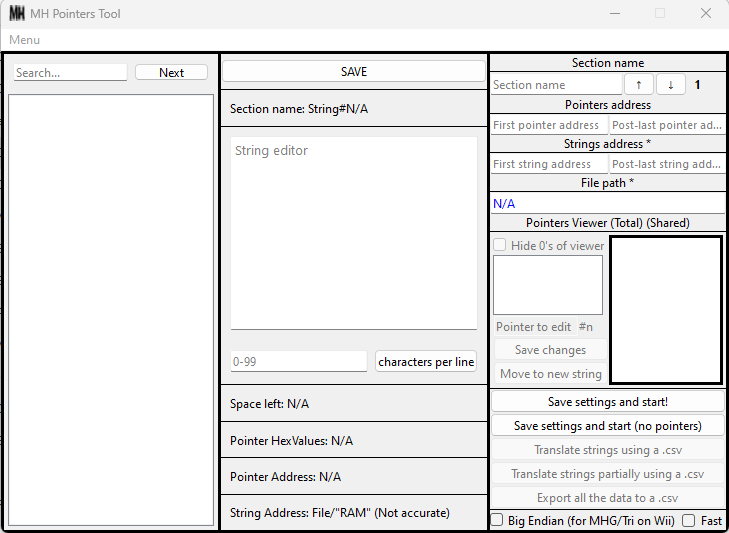
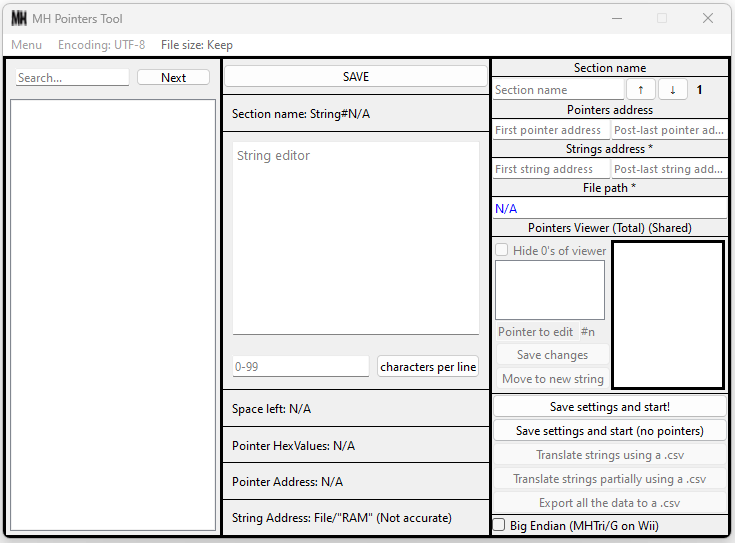
Metadata updated to 1.1.0

Changed region(s): [[0.0, 0.0, 1.0, 1.0], [0.9355, 0.0, 1.0, 0.03]]

diff --git a/src/index.js b/src/index.js
@@ -4436,6 +4436,7 @@ mainMenu.addAction(mainMenuAction6)
 
 const encodingMenu = new QMenu()
 encodingMenu.setTitle("Encoding: UTF-8")
+encodingMenu.setToolTip("Encoding used to load and save text.")
 const encodingMenuAction1 = new QAction();
 const encodingMenuAction2 = new QAction();
 

diff --git a/README.md b/README.md
@@ -1,25 +1,33 @@
 # MH Pointers Tool
 
-This tool can manage files with Shift-JIS and UTF8 encodings, then organize the file strings in a simple GUI where they can be edited. The edit can takes in count the pointers of these (if it position is given by the user), so if a string is edited the pointers will change too, maintaining the logic of where is the string in the file and making possible to get more free space to translate.
+This tool can manage the strings of any file that meets [certain paramethers](#compatible-estructure), organizing them in a simple GUI where they can be edited/translated, or exported to a csv file. When a string is edited, it can take into account its pointers (if the position/address of those are given by the user), so if a string is edited the pointers will change too, maintaining the logic of where the string is in the file and making possible to get more free space to translate or change strings. You can still use the tool without providing any pointers but the max size of a string will not be altered, in other words, if you overwrite a string with a bigger one the new string will be cut to maintain the size of the original string.
 
-It also has a lot of other functions, check below to know more!
+Supports Shift-JIS and UTF8 encodings, Little Endian and Big Endian.
 
-This tool was used to translate MHG for the PS2 from Japanese to English, so any game that has files with a similar strings and pointers structure must be also editable with it. 
+It also has a lot of other [features](#features), check below to know more!
 
-It has been also tested with MHP, MHG Wii and MHTri Europe version (The Japanese one has a weird encription, so I was not able to tested with it) and MHP3rd HD with excellents results. 
+## Tested games
 
-If you make some sucessfully tests with any other game, please let me know to add it to this list ^-^O.
+This tool was used to translate **Monster Hunter G** for the Playstation 2 from Japanese to English and to extract strings from the files of several other **Monster Hunter** games.
+
+It has been also tested with **Monster Hunter Portable**, **Monster Hunter 2 (Dos)**, **Monster Hunter G Wii**, **Monster Hunter Tri (E)** (The Japanese release has a weird encryption, so I was not able to test it there) and both **Monster Hunter Portable 3rd** **non**-**HD** and **HD** versions with excellents results.
+
+The strings of any game that has files with a similar structure must be also editable with this tool.
+
+I want to add that some of the before-mentioned games (the PS2 ones) were made using [CodeWarrior](https://en.wikipedia.org/wiki/CodeWarrior), these files have as header MWo3 (Metrowerks overlay 3?). 
+
+If you do some successful testing with any other games, please let me know to add it to this list ^-^O.
 
 ## Compatible estructure
 
-- The strings must be together but separated one from each other by at least one null value (00).
+- The strings must be together but separated from each other by at least one null value (00).
 
 Example: 
 82 50 00 82 51 00 82 52 00
 
-These hex values are "1 2 3" in full-width.
+These hex values are "１　２　３".
 
-- The pointers must be 4 bytes each. Can be both Big Endian (BE) or Little Endian (LE).
+- The pointers must be 4 bytes each. Can be both Big Endian (BE) or Little Endian (LE). Theoretically, they can be bigger, but bigger ones have not been tested yet since I don't have something to test them in the first place.
 
 Examples:
 F0 F3 2C 00 10 F4 2C 00 30 F4 2C 00 //LE
@@ -30,46 +38,59 @@ F0 F3 2C 00 10 F4 2C 00 30 F4 2C 00 //LE
 
 80 62 95 B4 80 62 95 C4 80 62 AE 14 //BE
 
+Each line has 4 different pointers.
+
 ## Values to set up
 
-You will need at least 2 values in hexadecimal (without 0x), the address of the first string and the address of the next byte different from 00 that goes after the last string.
+You will need at least 2 values in hexadecimal (without 0x), the address of the first string and the address of the next byte different from 00 that goes after the last string. The Hex values must be Big Endian.
 
 Example:
-FF FF FF FF FF FF FF FF FF FF FF FF FF FF FF FF
-82 50 00 00 82 51 00 00 82 52 00 00 01 02 03 00
+Offset   00 01 02 03 04 05 06 07 08 09 0A 0B 0C 0D 0E 0F
 
-The vales to use would be 10 and 19 (in that order).
+00000000 FF FF FF FF FF FF FF FF FF FF FF FF FF FF FF FF
+00000010 00 00 00 00 00 00 00 00 00 00 00 00 00 00 00 00
+00000020 82 50 00 00 82 51 00 00 82 52 00 00 01 02 03 00
 
-The same goes for the pointers address.
+The values to use would be 20 for the start and 2C for the end.
 
-To find these address you can use any standar hex editor like MadEdit.
+The same goes for the address of the pointers.
+
+To find these addresses you can use any standard hex editor like MadEdit.
 
 ## How does it look?
 <img alt="demo" src="./pngs/how_looks.png" height="280" />
 
-## Functions
+## Features
 
 -    **Easy handling** 
 
-You only need the address (without 0x) of the first string and a second address to mark the end of a group of strings. You will also need to choose a file, both cliking Menu>Load file>Choose file or drag and dropping it. Optionally you can add the address of the first string pointer and a address to mark the end of the pointers, by doing this each string can be edited more freely as long as there are enough free space (some null values),since it is possible to make the strings longer than they were originally.
+You need two hex addresses (without 0x), the first string address, and an address that marks the end of a group of strings. You will also need to choose a file, both by clicking Menu>Load file>Choose a file or **drag and dropping it**. Optionally you can add the address of the first string pointer and an address that marks the end of a group of pointers, by doing this each string can be edited more freely as long as there is enough free space (extra null values), since it is possible to make the strings longer than they were originally.
+
+Note: If a string is overwritten by a bigger one while using pointers, the last string will be cut to maintain the size of the file if there is not enough space.
 
 -    **Strings and pointers editor** 
 
-This tool can get the strings that are separated from each other by a null value (00) and make a list of them to be edited easily. Also has a option to limit the amount or characters per line, in case the width of a square in-game can't be changed.
+This tool can get the strings that are separated from each other by a null value (00) and make a list of them to be edited easily. Also has an option to limit the number of characters per line, in case the width of an in-game window can't be changed.
 
-Optionally if the pointers has a 4 bytes format, is possible get those to make a different list for them. In that list, they are updated automatically when a string that match with any of them is edited. They also can be edited manually or even change it values to relocate it string after the last. Note: By default the pointers are read in little endian but you can do it with big endian by checking that option before start.
+Additionally, there is a different list for pointers. Pointers on the list are updated automatically when a string that matches with any of them is edited. They also can be edited manually or even change their values to relocate it string after the last string of the section.
 
--   **Search option** 
+Note: By default the pointers are read in Little Endian but they can be read in Big Endian by checking that option before starting.
 
-Search for a string or part of it.
+-   **Search string** 
+
+Search for a string or part of it on the string list.
+
+-   **A lot of additional info**
+
+Available space to edit (calculated using null values), strings address, pointers address, pointers value etc.
 
 -   **Organize each section that is being translated** 
 
-Optionally, you can add a name to clasify each part of a group of strings that is being translated. This is called 'Section name'.
+You can add a name to classify each part of a group of strings that is being translated. This is called 'Section name'. In other words, represents a region of the file.
 
--   **Spreadsheet support** 
+-   **Cvs translation support** 
 
-Do you already has a spreadsheet with the original text and also the translated one? This tool has a option to translate the strings by using a UTF8 ".csv". The .csv must be divided by semicolons (not commas) and contain two columns. The first column must have the translated strings and the second one is for the untranslated text. Each string must be separated from another with at least one row of space and both strings must start in the same row.
+Do you already have a spreadsheet with the original text and the translated one? This tool has the option to translate the strings by using a UTF8 ".csv". The .csv must be divided by semicolons (not commas) and contain two columns. The first column must have the translated strings and the second one is for the untranslated text. Each string must be separated from another with at least one row of space and both strings must start in the same row.
 
 Examples:
 
@@ -77,21 +98,69 @@ Examples:
 
 There are 4 different strings in this example.
 
--   **Exportable data**
+-   **Exportable data (1.1.0 Update)**
 
-You can export to a .csv all the strings (and pointers) with it addresses.
+You can export to a .csv:
+1) Only strings of one specific section.
+2) Strings and the rest of data (pointers, addresses, etc.) of one specific section.
+3) Strings of all the following sections.
+4) Strings and the rest of the data of all the adjacent sections.
 
--   **And a lot of additional info**
+If the pointers table mode is ON, you can even export the strings or all the data from all .pt files in the Pointers Tables folder. Optionally, you can add or remove the name of each file/section that will be exported.
+
+When exported, the following changes will be made to the exported text automatically:
+
+* If a line of text contains a semicolon, quotation marks will be added at the end and start of the line.
+
+* If a line of text starts with '-' or '+', a space will be added at the start of it.
+
+* If a string contains one or more new lines between two sentences, a space will be added at the start of each new line. This ensures that a string with one or more new lines between sentences can be taken like one big string instead of separated into little strings since that space is used to separate one string from another one when a csv translation or an alignment is done.
+
+All these little changes are made to the exported text to ensure compatibility with Excel, csv translation, and csv alignment.
+
+-   **Align (merge) two csv into one file (1.1.0 Update)**
+
+Do you have all the original text and their translated counterpart in two different csv but need to align them to do a cvs translation? You can do it automatically by using this feature. It will return a .txt with both texts separated by semicolons, like a cvs format, and all their strings aligned one aside from the other.
+
+Note: Don't try to change it extension and open it directly with Excel, you need to import it and select the correct encoding for the file. Because of this reason, the aligned file is ".txt" and not ".csv".
+
+-   **Pointers table support (1.1.0 Update)**
+
+I will briefly explain their structure.
+
+Some games like **Monster Hunter 2 (Dos)** and **Monster Hunter Portable 3rd** contain files in which strings use pointers tables that point to another pointer instead of directly pointing to a string. This 'main pointers table' or 'pointers table index' uses values that start with an offset of 0 (the start of the file) and each one of them points directly to the first pointer of a 'secondary pointers table'. Each pointer of this 'secondary pointers table' points to a string, using as offset the value of the main pointer + the value of the secondary pointer.
+
+Example:
+Offset   00 01 02 03 04 05 06 07 08 09 0A 0B 0C 0D 0E 0F
+
+00000000 00 00 00 00 00 00 00 00 CC 00 00 00 FF 01 01 00 
+.
+.
+.
+000000C0 00 00 00 00 00 00 00 00 00 00 00 00 30 1F 00 00 
+000000D0 31 1F 00 00 00 00 00 00 00 00 00 00 00 00 00 00 
+.
+.
+.
+00001FF0 00 00 00 00 00 00 00 00 FF FF FF FF 00 80 50 00 
+
+The first main pointer is CC (204 in decimals), and points to 30 1F (7984), 204+7984 = 8188 = 1FFC, the value in 1FFC is null (00) but by using 31 1F (7985) the next value is a string: 80 50 (is １).
+
+To use this feature will be required an interval of two addresses containing all the pointers of the main pointers table (in this case would be 0 and 10 or 08 and 10) and an address that marks the end of the last series of strings. By default, this address is the one from the last value in the file and the field is filled automatically with it, but if the file contains data between the last string and their end is necessary to use the address of this data instead of the default one.
+
+Additionally, for MHP3rd, there were some particular files that needed another value by part of the user, a global offset. This is because the main pointer points to a series of 4 null values, so is necessary to add an extra offset to correct that.
+
+After filling in the required fields, by continuing a new window will appear. Here the user must manually select the pointer(s) that will be used. After that, a .pt (Pointers Tables) file will be created in 'MH-Pointers-Tool/Pointers Tables'. In the .pt file is where all the data related to a Pointers Table is saved, after being created will be loaded automatically but it can also be loaded manually by selecting Menu>Load Pointers Table.
 
 ## Installation (Windows and Linux)
 
-Download the latest package. For Windows you will also need visual c++ runtime 2015-2022 and for Linux you will need Nodegui installed.
+Download the latest package and execute it. For Windows, you will also need visual C++ runtime 2015-2022 and for Linux, you will need Nodegui installed.
 
 ## Building from source
 
 ### Windows (tested on Windows 11)
 
-1) Download and install Git, NodeJs 19.8.1 or latest and Cmake. Note, older versions (16.xx-18.xx) could need files from visual studio, in that case install 'windows-build-tools' or visual studio.
+1) Download and install Git, NodeJs 19.8.1 or latest, and Cmake. Note, that older versions (16.xx-18.xx) could need files from visual studio, in that case, install 'windows-build-tools' or visual studio.
 
 2) Open gitbash and type:
 
@@ -119,7 +188,7 @@ sudo npx nodegui-packer --pack dist
 ```
 
 If the AppRun file doesn't work, do this:
-Check MH-Pointers-Tool/deploy/linux/build/MH-Pointers-Tool and change "plugins" in qt.conf to: /usr/lib/node_modules/@nodegui/nodegui/miniqt/6.4.1/gcc_64/plugins.
+Check MH-Pointers-Tool/deploy/linux/build/MH-Pointers-Tool and change "plugins" in qt.conf to: /usr/lib/node_modules/@nodegui/nodegui/miniqt/6.4.1/gcc_64/plugins
 
 ## Special Thanks
 
